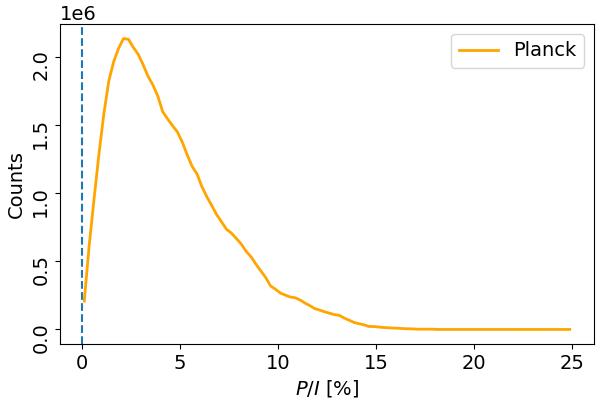
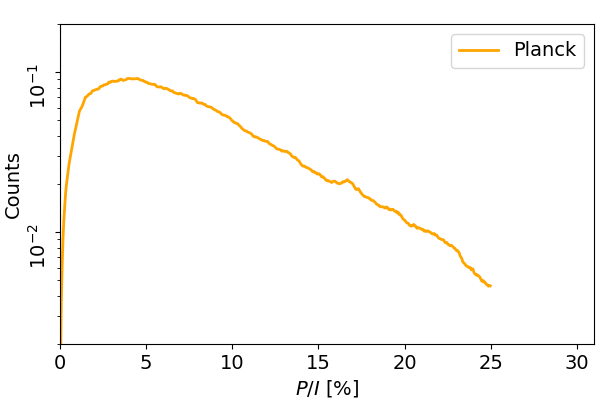
Updated diagnostic plot routines

diff --git a/hppolkit.py b/hppolkit.py
@@ -114,30 +114,18 @@ def diagnosticHists(Imap, Qmap, Umap, NHmap, polconv='Polaris', label='Test', ni
    if (polconv=='Planck'):
       psimap=map_angle_pi_to_halfpi(0.5*np.arctan2(Umap,Qmap)) 
 
-   histpsi, bins = np.histogram(psimap, range=[-np.pi/2.,np.pi/2.], bins=90)
-   binspsi=0.5*(bins[0:np.size(bins)-1]+bins[1:np.size(bins)]) 
-  
-   fig = plt.figure(figsize=(6.0,4.0))
-   plt.rc('font', size=14)
-   ax1=plt.subplot(111)
-   ax1.plot(binspsi, histpsi, color='blue', linewidth=2.0, label=label)
-   ax1.axvline(x=0., linestyle='dashed')
-   ax1.tick_params(axis='y', labelrotation=90)
-   ax1.set_xlabel(r"$\psi$ [rad]")
-   ax1.set_ylabel(r"Counts")
-   plt.legend()
-   plt.subplots_adjust(left=0.1, bottom=0.14, right=0.99, top=0.94)
-   plt.savefig(label+"_histPsi.png")
-   plt.close()
-
+   # ===============================================================================
    PoverImap=np.sqrt(Qmap**2+Umap**2)/Imap
-   histPoverI, bins = np.histogram(100*PoverImap, range=[0,25.0], bins=100)  
-   binsPoverI=0.5*(bins[0:np.size(bins)-1]+bins[1:np.size(bins)]) 
+   histPoverI, bins = np.histogram(100*PoverImap, range=[0,25.0], bins=500, density=True)
+   binsPoverI=0.5*(bins[0:np.size(bins)-1]+bins[1:np.size(bins)])
 
+   # P/I histogram (Fig. 5. in Planck 2018 XI)
    fig = plt.figure(figsize=(6.0,4.0))
    plt.rc('font', size=14)
    ax1=plt.subplot(111)
-   ax1.plot(binsPoverI, histPoverI, color='orange', linewidth=2.0, label=label)
+   ax1.set_xlim(0.,31.)
+   ax1.set_ylim(2e-3,0.2)
+   ax1.semilogy(binsPoverI, histPoverI, color='orange', linewidth=2.0, label=label)
    ax1.axvline(x=0., linestyle='dashed')
    ax1.tick_params(axis='y', labelrotation=90)
    ax1.set_xlabel(r"$P/I$ [%]")
@@ -147,8 +135,80 @@ def diagnosticHists(Imap, Qmap, Umap, NHmap, polconv='Polaris', label='Test', ni
    plt.savefig(label+"_histPoverI.png")
    plt.close()
     
-   binsp=np.linspace(0.,30.,500)
-   binslognh=np.linspace(-2.0,2.0,500)
+   # ===============================================================================
+   histpsi, bins = np.histogram(psimap, range=[-np.pi/2.,np.pi/2.], bins=500, density=True)
+   binspsi=0.5*(bins[0:np.size(bins)-1]+bins[1:np.size(bins)]) 
+
+   # Psi histogram (Fig. 6. in Planck 2018 XI)   
+   fig = plt.figure(figsize=(6.0,4.0))
+   plt.rc('font', size=14)
+   ax1=plt.subplot(111)
+   ax1.set_xlim(-90.,90.)
+   ax1.set_ylim(0.0,1.0) 
+   ax1.plot(np.rad2deg(binspsi), histpsi, color='blue', linewidth=2.0, label=label)
+   ax1.axvline(x=0., linestyle='dashed')
+   ax1.tick_params(axis='y', labelrotation=90)
+   ax1.set_xlabel(r"$\psi$ [rad]")
+   ax1.set_ylabel(r"Counts")
+   plt.legend()
+   plt.subplots_adjust(left=0.1, bottom=0.14, right=0.99, top=0.94)
+   plt.savefig(label+"_histPsi.png")
+   plt.close()
+
+   # ===============================================================================
+   print("Calculating NablaPsi")
+   ksz=80.0/60.0 #deg
+   gradpsi=gradPsi(Qmap, Umap, ksz=ksz, niter=niter)
+   Sfunc=np.rad2deg(np.deg2rad(ksz)*gradpsi/(2.*np.sqrt(2.)))
+ 
+   histS, bins = np.histogram(Sfunc, bins=500, density=True) 
+   binsS=0.5*(bins[0:np.size(bins)-1]+bins[1:np.size(bins)])
+   
+   # S histogram (Fig. 7. in Planck 2018 XI) 
+   fig = plt.figure(figsize=(6.0,4.0))
+   plt.rc('font', size=14)
+   ax1=plt.subplot(111)
+   ax1.set_xlim(0.,90.) 
+   ax1.set_ylim(8e-5,0.3)
+   ax1.semilogy(binsS, histS, color='magenta', linewidth=2.0, label=label)
+   ax1.axvline(x=52., color='grey', linestyle='dashed')
+   ax1.tick_params(axis='y', labelrotation=90)
+   ax1.set_xlabel(r"$\mathcal{S}$ [deg]")
+   ax1.set_ylabel(r"Counts")
+   plt.legend()
+   plt.subplots_adjust(left=0.1, bottom=0.14, right=0.99, top=0.94)
+   plt.savefig(label+"_histS.png")
+   plt.close()
+
+   bin1=(PoverImap <= 0.01).nonzero()
+   bin2=np.logical_and(PoverImap >0.01, PoverImap < 0.05).nonzero()
+   bin3=(PoverImap >= 0.05).nonzero()
+
+   histS1, bins1 = np.histogram(Sfunc[bin1], bins=bins, density=True)
+   histS2, bins2 = np.histogram(Sfunc[bin2], bins=bins, density=True)
+   histS3, bins3 = np.histogram(Sfunc[bin3], bins=bins, density=True)
+
+   fig = plt.figure(figsize=(6.0,4.0))
+   plt.rc('font', size=14)
+   ax1=plt.subplot(111)
+   ax1.set_xlim(0.,90.)  
+   ax1.set_ylim(8e-5,0.3)
+   ax1.semilogy(binsS, histS, color='black', linewidth=2.0, label='All')
+   ax1.semilogy(binsS, histS1, color='red', linewidth=2.0, label=r'$p < 1\%$')
+   ax1.semilogy(binsS, histS2, color='blue', linewidth=2.0, label=r'$1 < p < 5\%$')
+   ax1.semilogy(binsS, histS3, color='teal', linewidth=2.0, label=r'$p > 5\%$')  
+   ax1.axvline(x=0., linestyle='dashed')
+   ax1.tick_params(axis='y', labelrotation=90)
+   ax1.set_xlabel(r"$\mathcal{S}$ [deg]")
+   ax1.set_ylabel(r"Counts")
+   plt.legend()
+   plt.subplots_adjust(left=0.1, bottom=0.14, right=0.99, top=0.94)
+   plt.savefig(label+"_histSmultiPoverI.png")
+   plt.close()
+
+   # ===============================================================================
+   binsp=np.linspace(0.,30.,50)
+   binslognh=np.linspace(-2.0,2.0,50)
 
    NHmap[(NHmap < 1.).nonzero()]=np.nan 
    logNH21=np.log10(NHmap/1e21)
@@ -157,45 +217,61 @@ def diagnosticHists(Imap, Qmap, Umap, NHmap, polconv='Polaris', label='Test', ni
 
    xmat, ymat = np.meshgrid(xedges, yedges)
 
+   # P/I and NH 2D histogram (Fig. 9. in Planck 2018 XI) 
    fig = plt.figure(figsize=(6.0,5.5))
    plt.rc('font', size=14)
    ax1=plt.subplot(111)
-   im1=ax1.pcolormesh(xmat, ymat, hist2DlognhANDpoveri.T, norm=colors.LogNorm(), cmap='jet')
+   #im1=ax1.pcolormesh(xmat, ymat, hist2DlognhANDpoveri.T, norm=colors.LogNorm(), cmap='jet')
+   im1=ax1.pcolormesh(xmat, ymat, np.log10(hist2DlognhANDpoveri).T, cmap='jet')
    ax1.tick_params(axis='y', labelrotation=90)
    ax1.set_xlabel(r"$\log_{10}(N_{\rm H}/10^{21}$ cm$^{-2}$)")
    ax1.set_ylabel(r"$P/I$ [%]")
    ax_cb=ax1.inset_axes([1.025, 0.0, 0.03, 1.0])
    cbar=plt.colorbar(im1, ax=ax1, cax=ax_cb)
    cbar.ax.tick_params(axis='y', labelrotation=90)
-   cbar.ax.set_title(r'$T_{\rm b}$ [K]', fontsize=12, ha='center')
+   cbar.ax.set_title(r'log(counts)', fontsize=12, ha='center')
    plt.subplots_adjust(left=0.1, bottom=0.1, right=0.9, top=0.96)
    plt.tight_layout()
    plt.savefig(label+"_hist2DlognhANDpoveri.png")
    plt.close()
-
-   print("Calculating NablaPsi")
-   ksz=1.0 #deg
-   gradpsi=gradPsi(Qmap, Umap, ksz=ksz, niter=niter)
-   Sfunc=np.rad2deg(np.deg2rad(ksz)*gradpsi/(2.*np.sqrt(2.)))
- 
-   histgradpsi, bins = np.histogram(Sfunc, bins=100) 
-   binsgradpsi=0.5*(bins[0:np.size(bins)-1]+bins[1:np.size(bins)])
    
-   fig = plt.figure(figsize=(6.0,4.0))
+   # ===============================================================================
+   pmin=0.1; pmax=25.0
+   Smin=0.2; Smax=90.0
+
+   binsp=np.linspace(np.log10(pmin),np.log10(pmax),100)
+   binsS2=np.linspace(np.log10(Smin),np.log10(Smax),100)
+ 
+   logPoverI=np.log10(100*PoverImap)
+   logS=np.log10(Sfunc)
+
+   good=np.logical_and(np.isfinite(logPoverI),np.isfinite(logS)).nonzero()
+   hist2DpoveriANDs, xedges, yedges = np.histogram2d(logPoverI[good], logS[good], bins=(binsp,binsS2))
+
+   xmat, ymat = np.meshgrid(xedges, yedges)
+
+   hist2DpoveriANDs[(hist2DpoveriANDs < 1.0).nonzero()]=np.nan
+
+   # P/I and NH 2D histogram (Fig. 10. in Planck 2018 XI) 
+   fig = plt.figure(figsize=(6.0,5.5))
    plt.rc('font', size=14)
    ax1=plt.subplot(111)
-   ax1.plot(binsgradpsi, histgradpsi, color='magenta', linewidth=2.0, label=label)
-   ax1.axvline(x=0., linestyle='dashed')
+   im1=ax1.pcolormesh(xmat, ymat, np.log10(hist2DpoveriANDs.T), cmap='jet')
    ax1.tick_params(axis='y', labelrotation=90)
-   ax1.set_xlabel(r"$\mathcal{S}$ [deg]")
-   ax1.set_ylabel(r"Counts")
-   plt.legend()
-   plt.subplots_adjust(left=0.1, bottom=0.14, right=0.99, top=0.94)
-   plt.savefig(label+"_histS.png")
+   ax1.set_xlabel(r"$P/I$ [%]")
+   ax1.set_ylabel(r"$\mathcal{S}$ [deg]")  
+   ax_cb=ax1.inset_axes([1.025, 0.0, 0.03, 1.0])
+   cbar=plt.colorbar(im1, ax=ax1, cax=ax_cb)
+   cbar.ax.tick_params(axis='y', labelrotation=90)
+   cbar.ax.set_title(r'log(counts)', fontsize=12, ha='center')
+   plt.subplots_adjust(left=0.1, bottom=0.1, right=0.9, top=0.96)
+   plt.tight_layout()
+   plt.savefig(label+"_hist2DpoveriANDs.png")
    plt.close()
+
    #import pdb; pdb.set_trace()
 
-   return {'binspsi': binspsi, 'histpsi': histpsi, 'binsPoverI': binsPoverI, 'histPoverI': histPoverI, 'binsgradpsi': binsgradpsi, 'histgradpsi': histgradpsi}
+   return {'binspsi': binspsi, 'histpsi': histpsi, 'binsPoverI': binsPoverI, 'histPoverI': histPoverI, 'binsgradpsi': binsS, 'histgradpsi': histS}
 
 # ===================================================================================================
 #def diagnostic2DHists(Imap, Qmap, Umap, fwhm, fwhm0=0.):

diff --git a/examples/DiagnosticPlots.py b/examples/DiagnosticPlots.py
@@ -57,15 +57,19 @@ southpix=(bvec < -5.0).nonzero()
 indir=''
 dir2='/Users/soler/Documents/PYTHON/Planck/ForegroundMaps/Dust/'
 hdup=fits.open(dir2+'COM_CompMap_IQU-thermaldust-gnilc-unires_2048_R3.00.fits')
-I353=hdup[1].data['I_STOKES']*287.5 #-452
-Q353=hdup[1].data['Q_STOKES']*287.5
-U353=hdup[1].data['U_STOKES']*287.5
+CIBmonopole=452e-6 # Kcmb
+I353nest=(hdup[1].data['I_STOKES']-CIBmonopole)*287.5 # Myr/sr
+Q353nest=hdup[1].data['Q_STOKES']*287.5 # Myr/sr
+U353nest=hdup[1].data['U_STOKES']*287.5 # Myr/sr
 hdup.close()
 
 hdup=fits.open(dir2+'COM_CompMap_Dust-GNILC-Model-Opacity_2048_R2.01.fits')
 tau353=hdup[1].data['TAU353']
 planckNH=tau353/NHtotau353
 
+I353=hp.reorder(I353nest, n2r=True)
+Q353=hp.reorder(Q353nest, n2r=True)
+U353=hp.reorder(U353nest, n2r=True)
 outhistPlanck=diagnosticHists(I353, Q353, U353, planckNH, polconv='Planck', label='Planck')
 
 snpsht="824"
@@ -76,7 +80,7 @@ hdu=fits.open(indir+"polaris_detector_nr0003.fits.gz")
 Isim=hdu[1].data['I_STOKES (WAVELENGTH = 8.500000e-04 [m])']
 Qsim=hdu[1].data['Q_STOKES (WAVELENGTH = 8.500000e-04 [m])']
 Usim=hdu[1].data['U_STOKES (WAVELENGTH = 8.500000e-04 [m])']
-NHsim=hdu[1].data['COLUMN_DENSITY']/1e2
+NHsim=hdu[1].data['COLUMN_DENSITY']/1e4
 
 soutput=smoothmaps(Isim, Qsim, Usim, 80., NHmap=NHsim)
 outhistSim=diagnosticHists(soutput['Imap'], soutput['Qmap'], soutput['Umap'], soutput['NHmap'], polconv='Polaris', label='RheaIIsnapshot'+snpsht+"loc2")
@@ -94,7 +98,7 @@ ax1.set_xlabel(r"$\psi$ [rad]")
 ax1.set_ylabel(r"Counts")
 plt.legend()
 plt.subplots_adjust(left=0.1, bottom=0.14, right=0.99, top=0.94)
-plt.savefig(prefix+"_histPoverI.png")
+plt.savefig(prefix+"_histPsi.png")
 plt.close()
 
 fig = plt.figure(figsize=(6.0,4.0))
